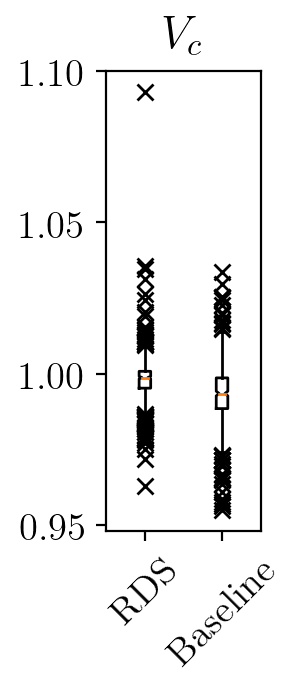
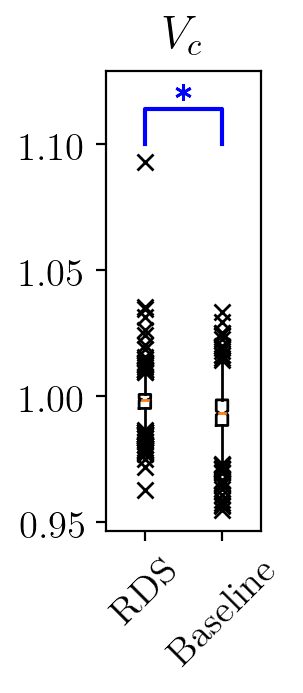
add significance bracket to boxplots

diff --git a/rds/script/make_box_plots.py b/rds/script/make_box_plots.py
@@ -20,6 +20,7 @@ samples_metrics = samples_metrics[1:,:]
 selection = np.array([9,10,11,12,3,4,7,8], dtype=int) - 1
 new_labels = ['$ E_r $', '$ E_r $', '$ E_p $', '$ E_p $', '$ V_c $', '$ V_c $', '$ V_n $', '$ V_n $']
 scaling = [1/5.0, 1/5.0, 1.0, 1.0, 1.0, 1.0, 1.0, 1.0]
+significant = [True, True, True, False]
 
 for k in range(selection.shape[0]/2):
 	fig, ax = plt.subplots(1, 1, figsize=(1, 3))
@@ -29,6 +30,15 @@ for k in range(selection.shape[0]/2):
 	labels = ['RDS', 'Baseline']
 	title = new_labels[k*2]# + header[i_rds].strip()
 	ax.boxplot(data, 1, 'x', showmeans=False)#, positions=[0.5,1.5])
+
+	if significant[k]:
+		data_max = np.max(data)
+		data_h = data_max - np.min(data)
+		bar_offset = data_h*0.05
+		bar_h = data_h*0.1
+		ax.plot([1,1,2,2],[data_max+bar_offset, data_max+bar_offset+bar_h, data_max+bar_offset+bar_h, data_max+bar_offset], 'b')
+		ax.plot([1.5], [data_max+bar_offset+bar_h+bar_offset], marker=(6,2,0), color='b')
+
 	#ax.set_xlim([0.0, 2.0])
 	#plt.subplots_adjust(left=0.3, right=0.7)
 	ax.set_xticklabels(labels, rotation=45)#, fontsize=12)
